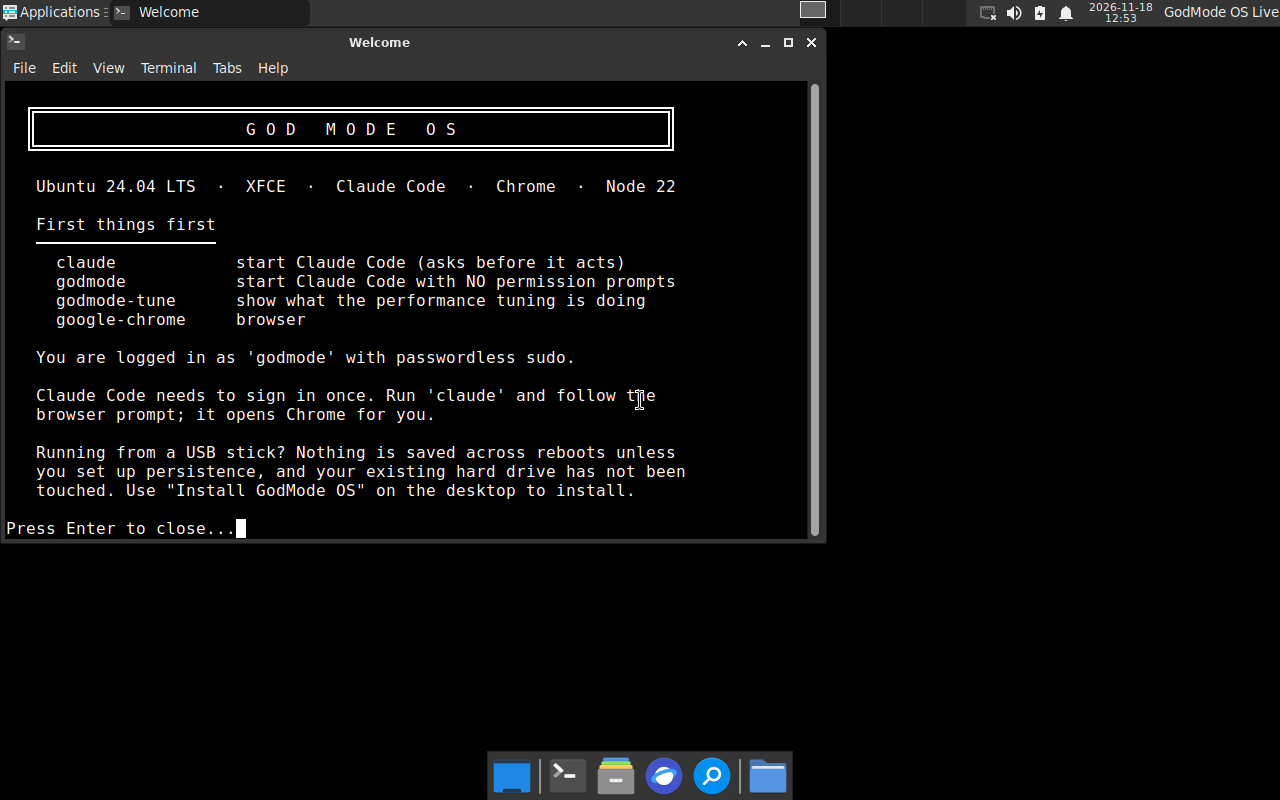
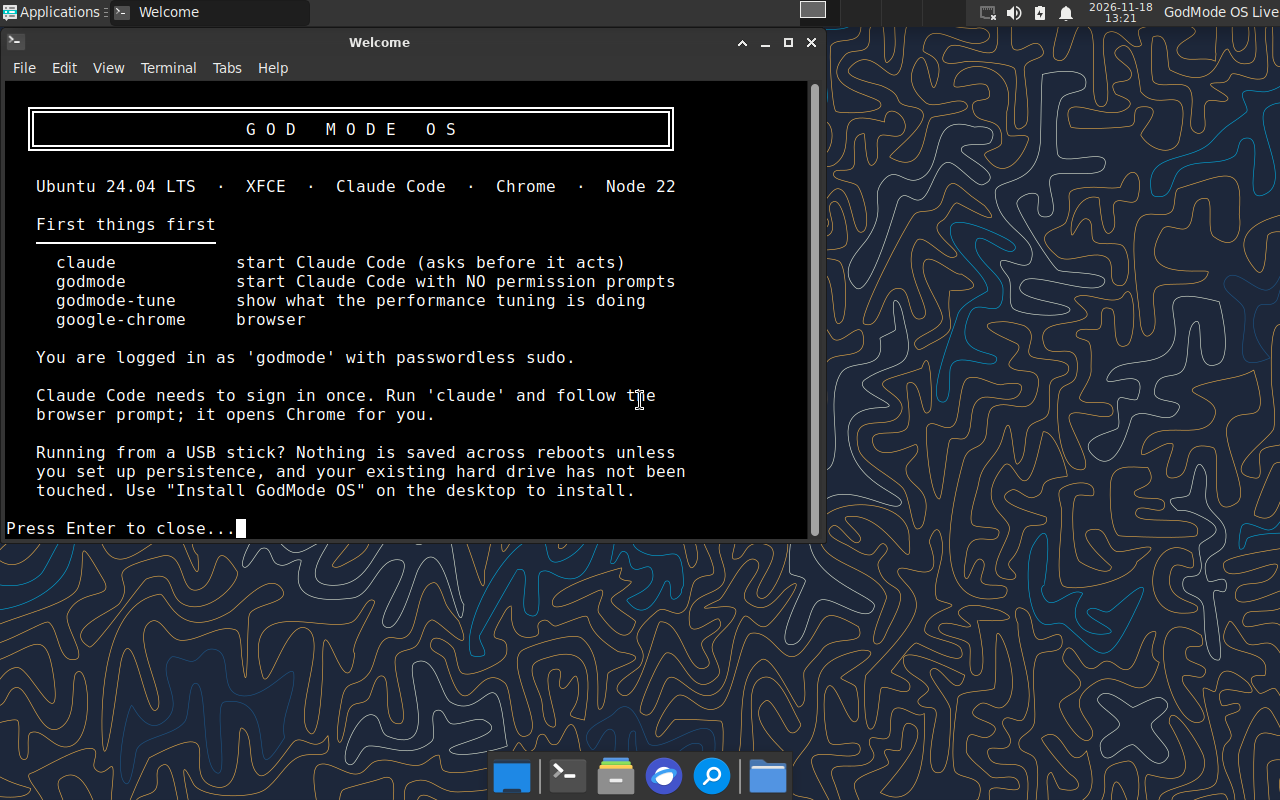
docs(os): re-verify both firmware paths against the shipping image
The BIOS fix changed the early GRUB config, which the UEFI path also reads,
so the earlier UEFI evidence no longer described the image being shipped.
Re-ran the Secure Boot test against the final ISO and replaced the captures
with ones taken from it, so every screenshot here comes from the same
sha256 332c716e build that the offline checks and the BIOS test cover.

Claude-Session: https://claude.ai/code/session_0183pN6tfnEsga5CEKe3ZmQw

diff --git a/os/docs/VERIFICATION.md b/os/docs/VERIFICATION.md
@@ -69,12 +69,14 @@ qemu-system-x86_64 -machine q35,smm=on \
 ```
 
 4 GB RAM, 4 vCPU, **TCG software emulation** (the build host has no `/dev/kvm`).
+Both this and the legacy BIOS test below were run against the same shipping
+image, `sha256 332c716e…`, after every fix recorded here.
 
 | t | State |
 |---|---|
 | 30s | black — OVMF still initialising |
 | 90s | Ubuntu 24.04 boot splash — shim and signed GRUB accepted, kernel running |
-| 200s | full XFCE desktop, autologged in as `godmode`, welcome screen drawn |
+| 210s | full XFCE desktop, autologged in as `godmode`, welcome screen drawn |
 | 250s | <kbd>Enter</kbd> sent over QMP to dismiss the welcome window |
 | 310s | desktop with all four shortcuts: Chrome, Install GodMode OS, Claude Code, Claude Code (God Mode) |
 
